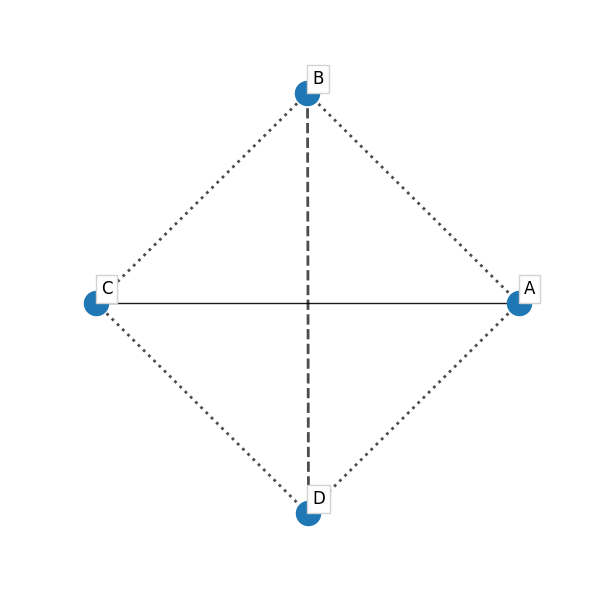
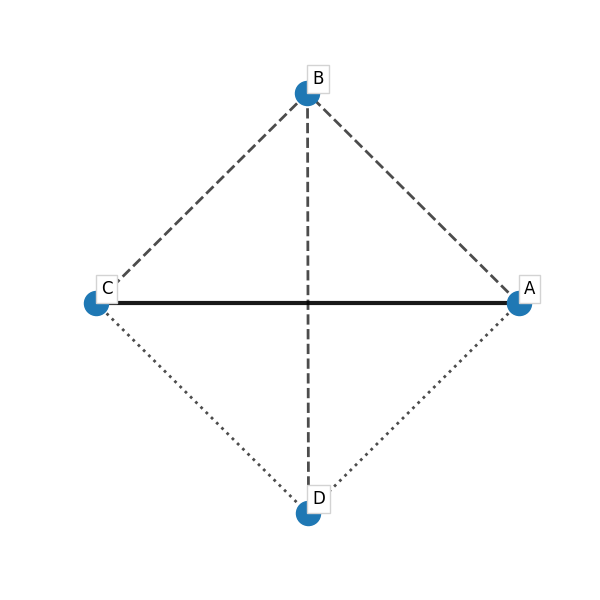
autocorr computation

diff --git a/techminer/dataframe.py b/techminer/dataframe.py
@@ -9,6 +9,7 @@ TechMiner.DataFrame
 import pandas as pd
 import numpy as np
 from sklearn.decomposition import PCA
+import math
 
 from .strings import remove_accents
 
@@ -19,6 +20,13 @@ SCOPUS_SEPS = {
     "Index Keywords": ";",
     "ID": ";",
 }
+
+
+def relationship(x, y):
+    sxy = sum([a * b * min(a, b) for a, b in zip(x, y)])
+    a = math.sqrt(sum(x))
+    b = math.sqrt(sum(y))
+    return sxy / (a * b)
 
 
 def heatmap(df, cmap):
@@ -2224,50 +2232,73 @@ class DataFrame(pd.DataFrame):
         4     B,D             c;d         4   4
         5     A,B               d         5   5
 
-        
+        >>> DataFrame(df).compute_tfm(column='Authors')
+           A  B  C  D
+        0  1  0  0  0
+        1  1  1  0  0
+        2  0  1  0  0
+        3  1  1  1  0
+        4  0  1  0  1
+        5  1  1  0  0
+
         >>> DataFrame(df).autocorr('Authors')
-                  A         B         C         D
-        A  1.000000 -0.316228  0.316228 -0.632456
-        B -0.316228  1.000000  0.200000  0.200000
-        C  0.316228  0.200000  1.000000 -0.200000
-        D -0.632456  0.200000 -0.200000  1.000000
+                 A         B         C         D
+        A  1.00000  0.670820  0.500000  0.000000
+        B  0.67082  1.000000  0.447214  0.447214
+        C  0.50000  0.447214  1.000000  0.000000
+        D  0.00000  0.447214  0.000000  1.000000
         
         >>> DataFrame(df).autocorr('Authors', as_matrix=False)
            Authors (IDX) Authors (COL)     value
         0              A             A  1.000000
-        1              B             A -0.316228
-        2              C             A  0.316228
-        3              D             A -0.632456
-        4              A             B -0.316228
+        1              B             A  0.670820
+        2              C             A  0.500000
+        3              D             A  0.000000
+        4              A             B  0.670820
         5              B             B  1.000000
-        6              C             B  0.200000
-        7              D             B  0.200000
-        8              A             C  0.316228
-        9              B             C  0.200000
+        6              C             B  0.447214
+        7              D             B  0.447214
+        8              A             C  0.500000
+        9              B             C  0.447214
         10             C             C  1.000000
-        11             D             C -0.200000
-        12             A             D -0.632456
-        13             B             D  0.200000
-        14             C             D -0.200000
+        11             D             C  0.000000
+        12             A             D  0.000000
+        13             B             D  0.447214
+        14             C             D  0.000000
         15             D             D  1.000000
 
         >>> DataFrame(df).autocorr('Author Keywords')
-              a     b     c     d
-        a  1.00  0.25 -0.50 -0.50
-        b  0.25  1.00 -0.50 -0.50
-        c -0.50 -0.50  1.00  0.25
-        d -0.50 -0.50  0.25  1.00
+             a    b    c    d
+        a  1.0  0.5  0.0  0.0
+        b  0.5  1.0  0.0  0.0
+        c  0.0  0.0  1.0  0.5
+        d  0.0  0.0  0.5  1.0
 
         >>> DataFrame(df).autocorr('Author Keywords', minmax=(0.25, None))
-             a    b     c     d
-        a  1.0  0.0  0.00  0.00
-        b  0.0  1.0  0.00  0.00
-        c  0.0  0.0  1.00  0.25
-        d  0.0  0.0  0.25  1.00
+             a    b    c    d
+        a  1.0  0.5  0.0  0.0
+        b  0.5  1.0  0.0  0.0
+        c  0.0  0.0  1.0  0.5
+        d  0.0  0.0  0.5  1.0
 
         """
-        result = self.compute_tfm(column=column, sep=sep)
-        result = result.corr(method=method)
+        tfm = self.compute_tfm(column=column, sep=sep)
+
+        result = pd.DataFrame(0.0, columns=tfm.columns, index=tfm.columns)
+        for term in tfm.columns:
+            result.at[term, term] = 1.0
+        for i in range(len(tfm.columns) - 1):
+            for j in range(i + 1, len(tfm.columns)):
+                d = pd.DataFrame({"x": tfm[tfm.columns[i]], "y": tfm[tfm.columns[j]]})
+                d = d[(d.x != 0) | (d.y != 0)]
+
+                if len(d) != 0 and sum(d.x * d.y) > 0:
+                    r = relationship(d.x, d.y)
+                    result.at[tfm.columns[i], tfm.columns[j]] = r
+                    result.at[tfm.columns[j], tfm.columns[i]] = r
+
+        # ---
+
         if as_matrix is False or minmax is not None:
             result = (
                 result.reset_index()
@@ -2344,15 +2375,16 @@ class DataFrame(pd.DataFrame):
 
         
         >>> DataFrame(df).autocorr('Authors')
-                  A         B         C         D
-        A  1.000000 -0.547723  0.547723 -0.645497
-        B -0.547723  1.000000 -0.416667  0.353553
-        C  0.547723 -0.416667  1.000000 -0.353553
-        D -0.645497  0.353553 -0.353553  1.000000
+                  A         B         C    D
+        A  1.000000  0.447214  0.774597  0.0
+        B  0.447214  1.000000  0.288675  0.5
+        C  0.774597  0.288675  1.000000  0.0
+        D  0.000000  0.500000  0.000000  1.0
         
 
         >>> DataFrame(df).autocorr_map('Authors')
-        {'terms': ['A', 'B', 'C', 'D'], 'edges_75': None, 'edges_50': [('A', 'C')], 'edges_25': [('B', 'D')], 'other_edges': [('A', 'B'), ('A', 'D'), ('B', 'C'), ('C', 'D')]}
+        {'terms': ['A', 'B', 'C', 'D'], 'edges_75': [('A', 'C')], 'edges_50': None, 'edges_25': [('A', 'B'), ('B', 'C'), ('B', 'D')], 'other_edges': [('A', 'D'), ('C', 'D')]}
+
 
 
 

diff --git a/techminer/maps.py b/techminer/maps.py
@@ -209,7 +209,7 @@ class Map:
             :align: center
 
         >>> nxmap = Map()
-        >>> kwargs = DataFrame(df).autocorr_map('Authors',  top_n_links=5)
+        >>> kwargs = DataFrame(df).autocorr_map('Authors',  top_n_links=4)
         >>> nxmap.correlation_map(**kwargs)
         >>> plt.savefig('guide/images/correlation_map_2.png')
 
